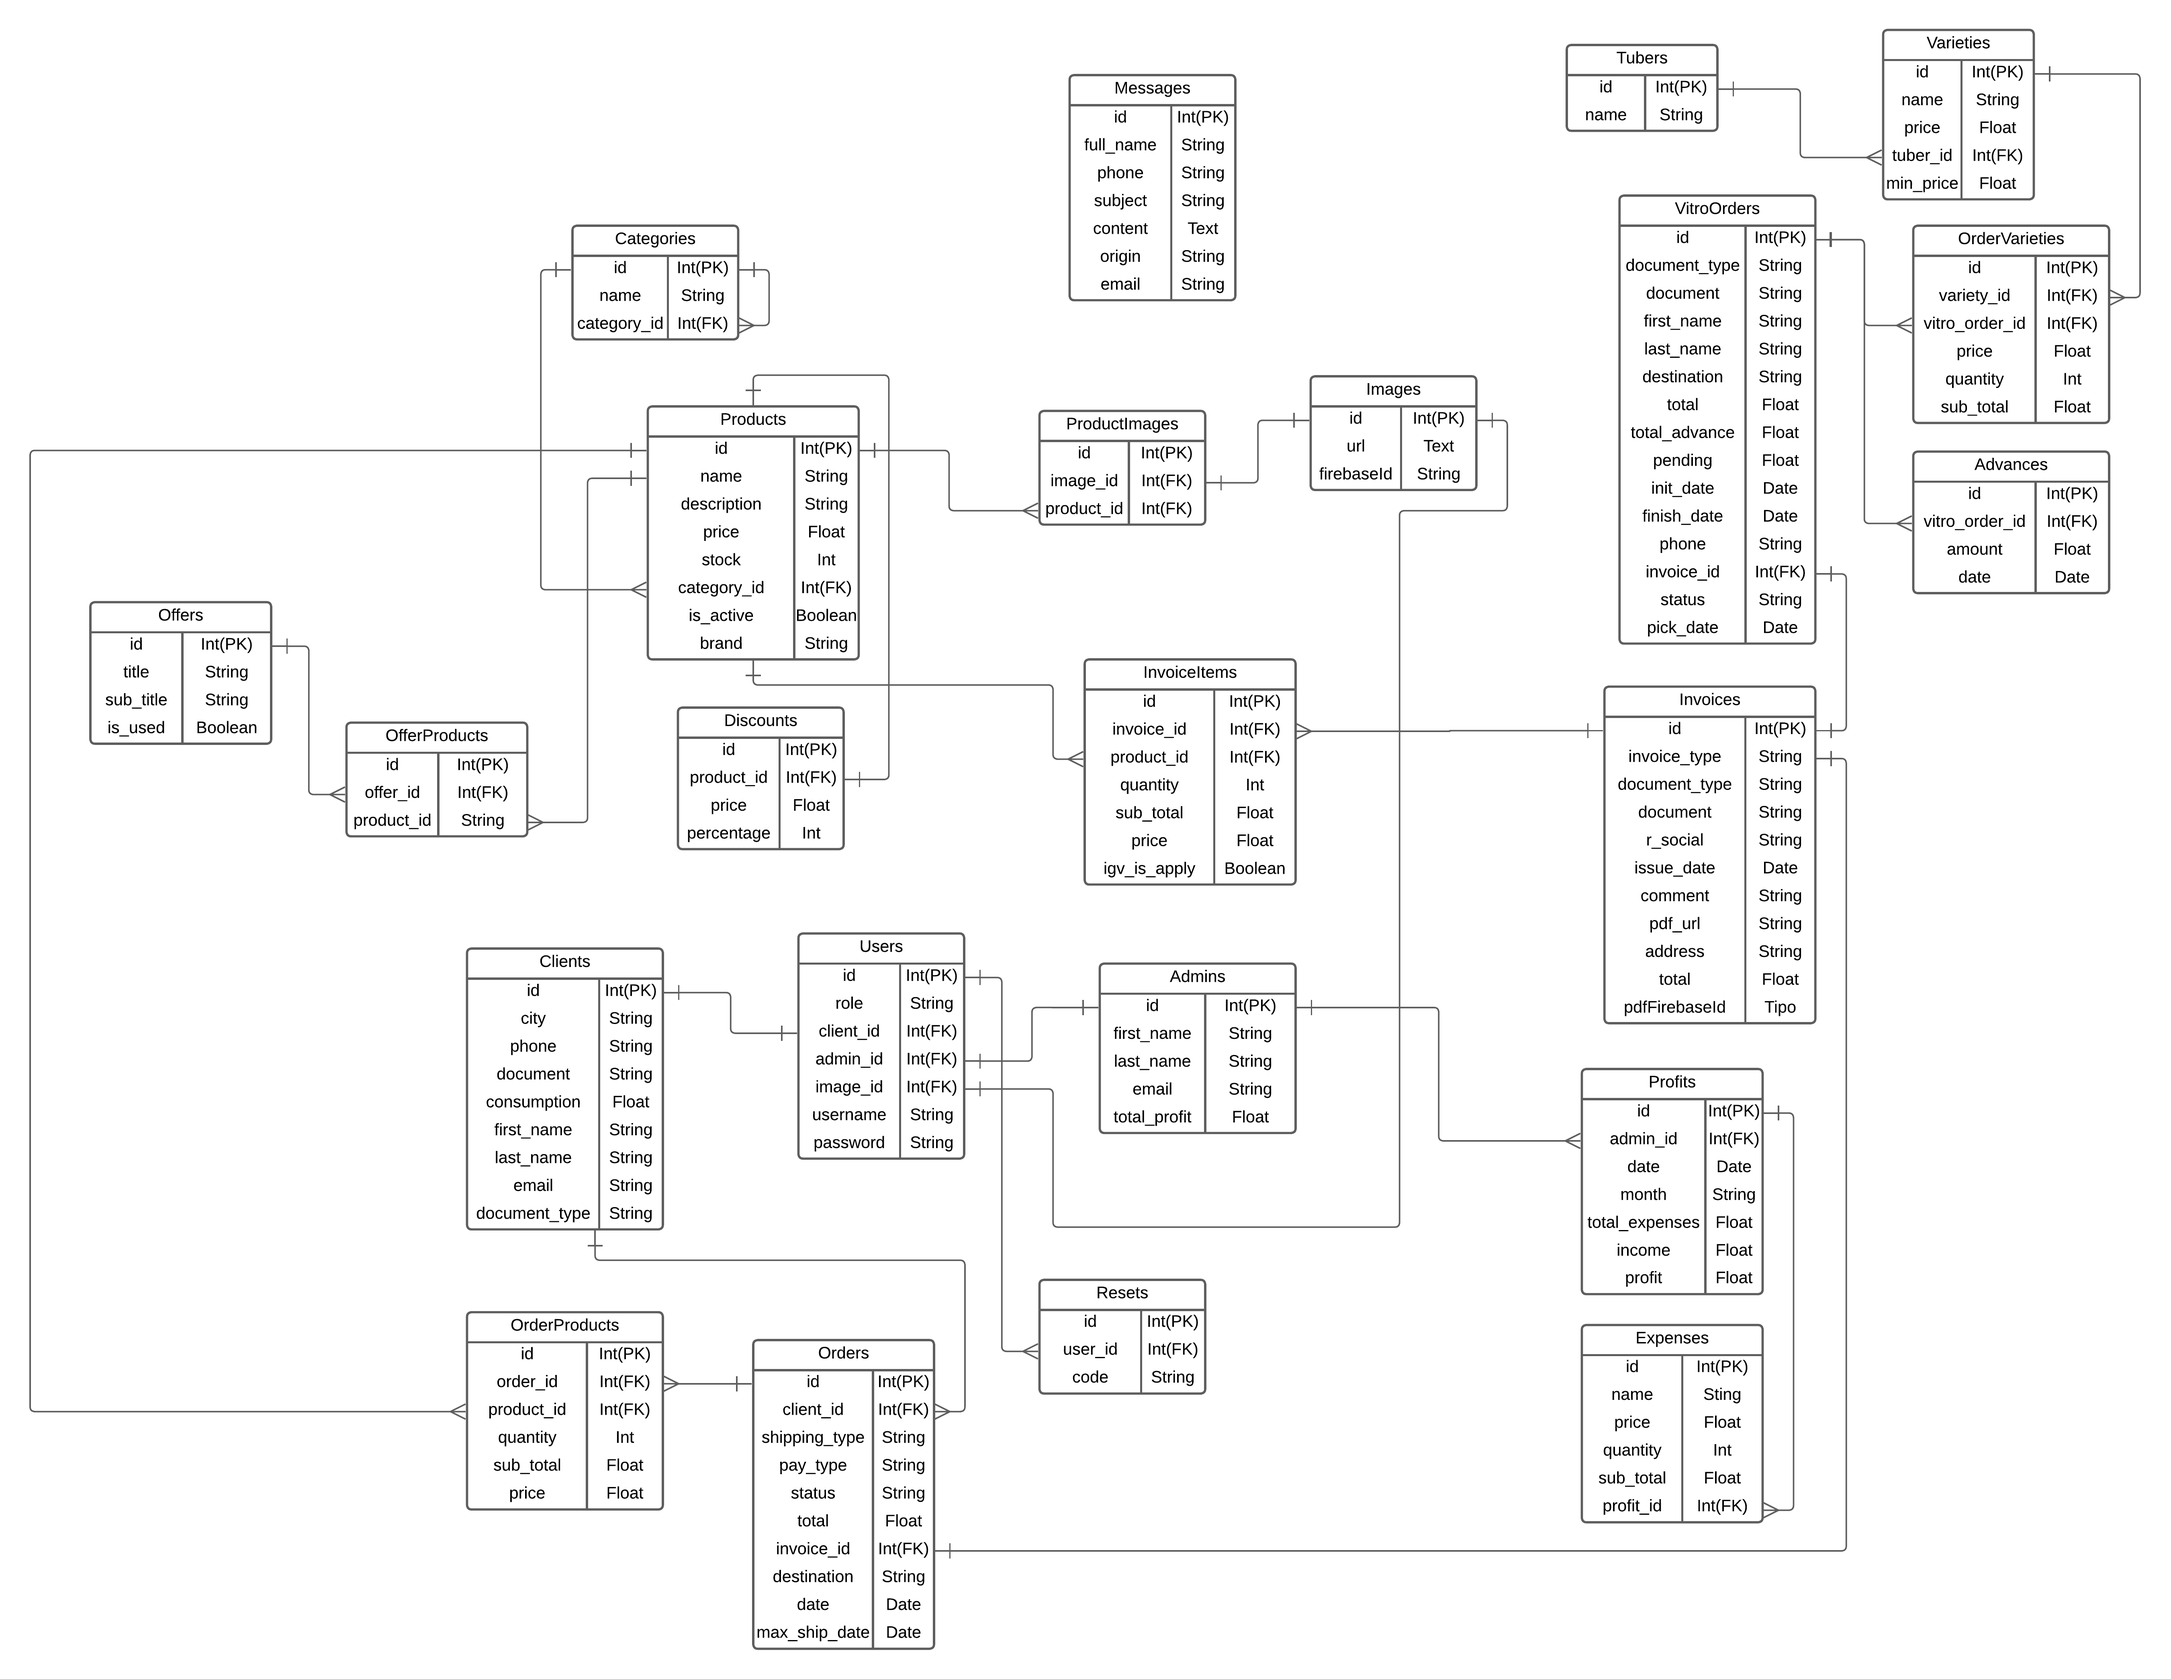
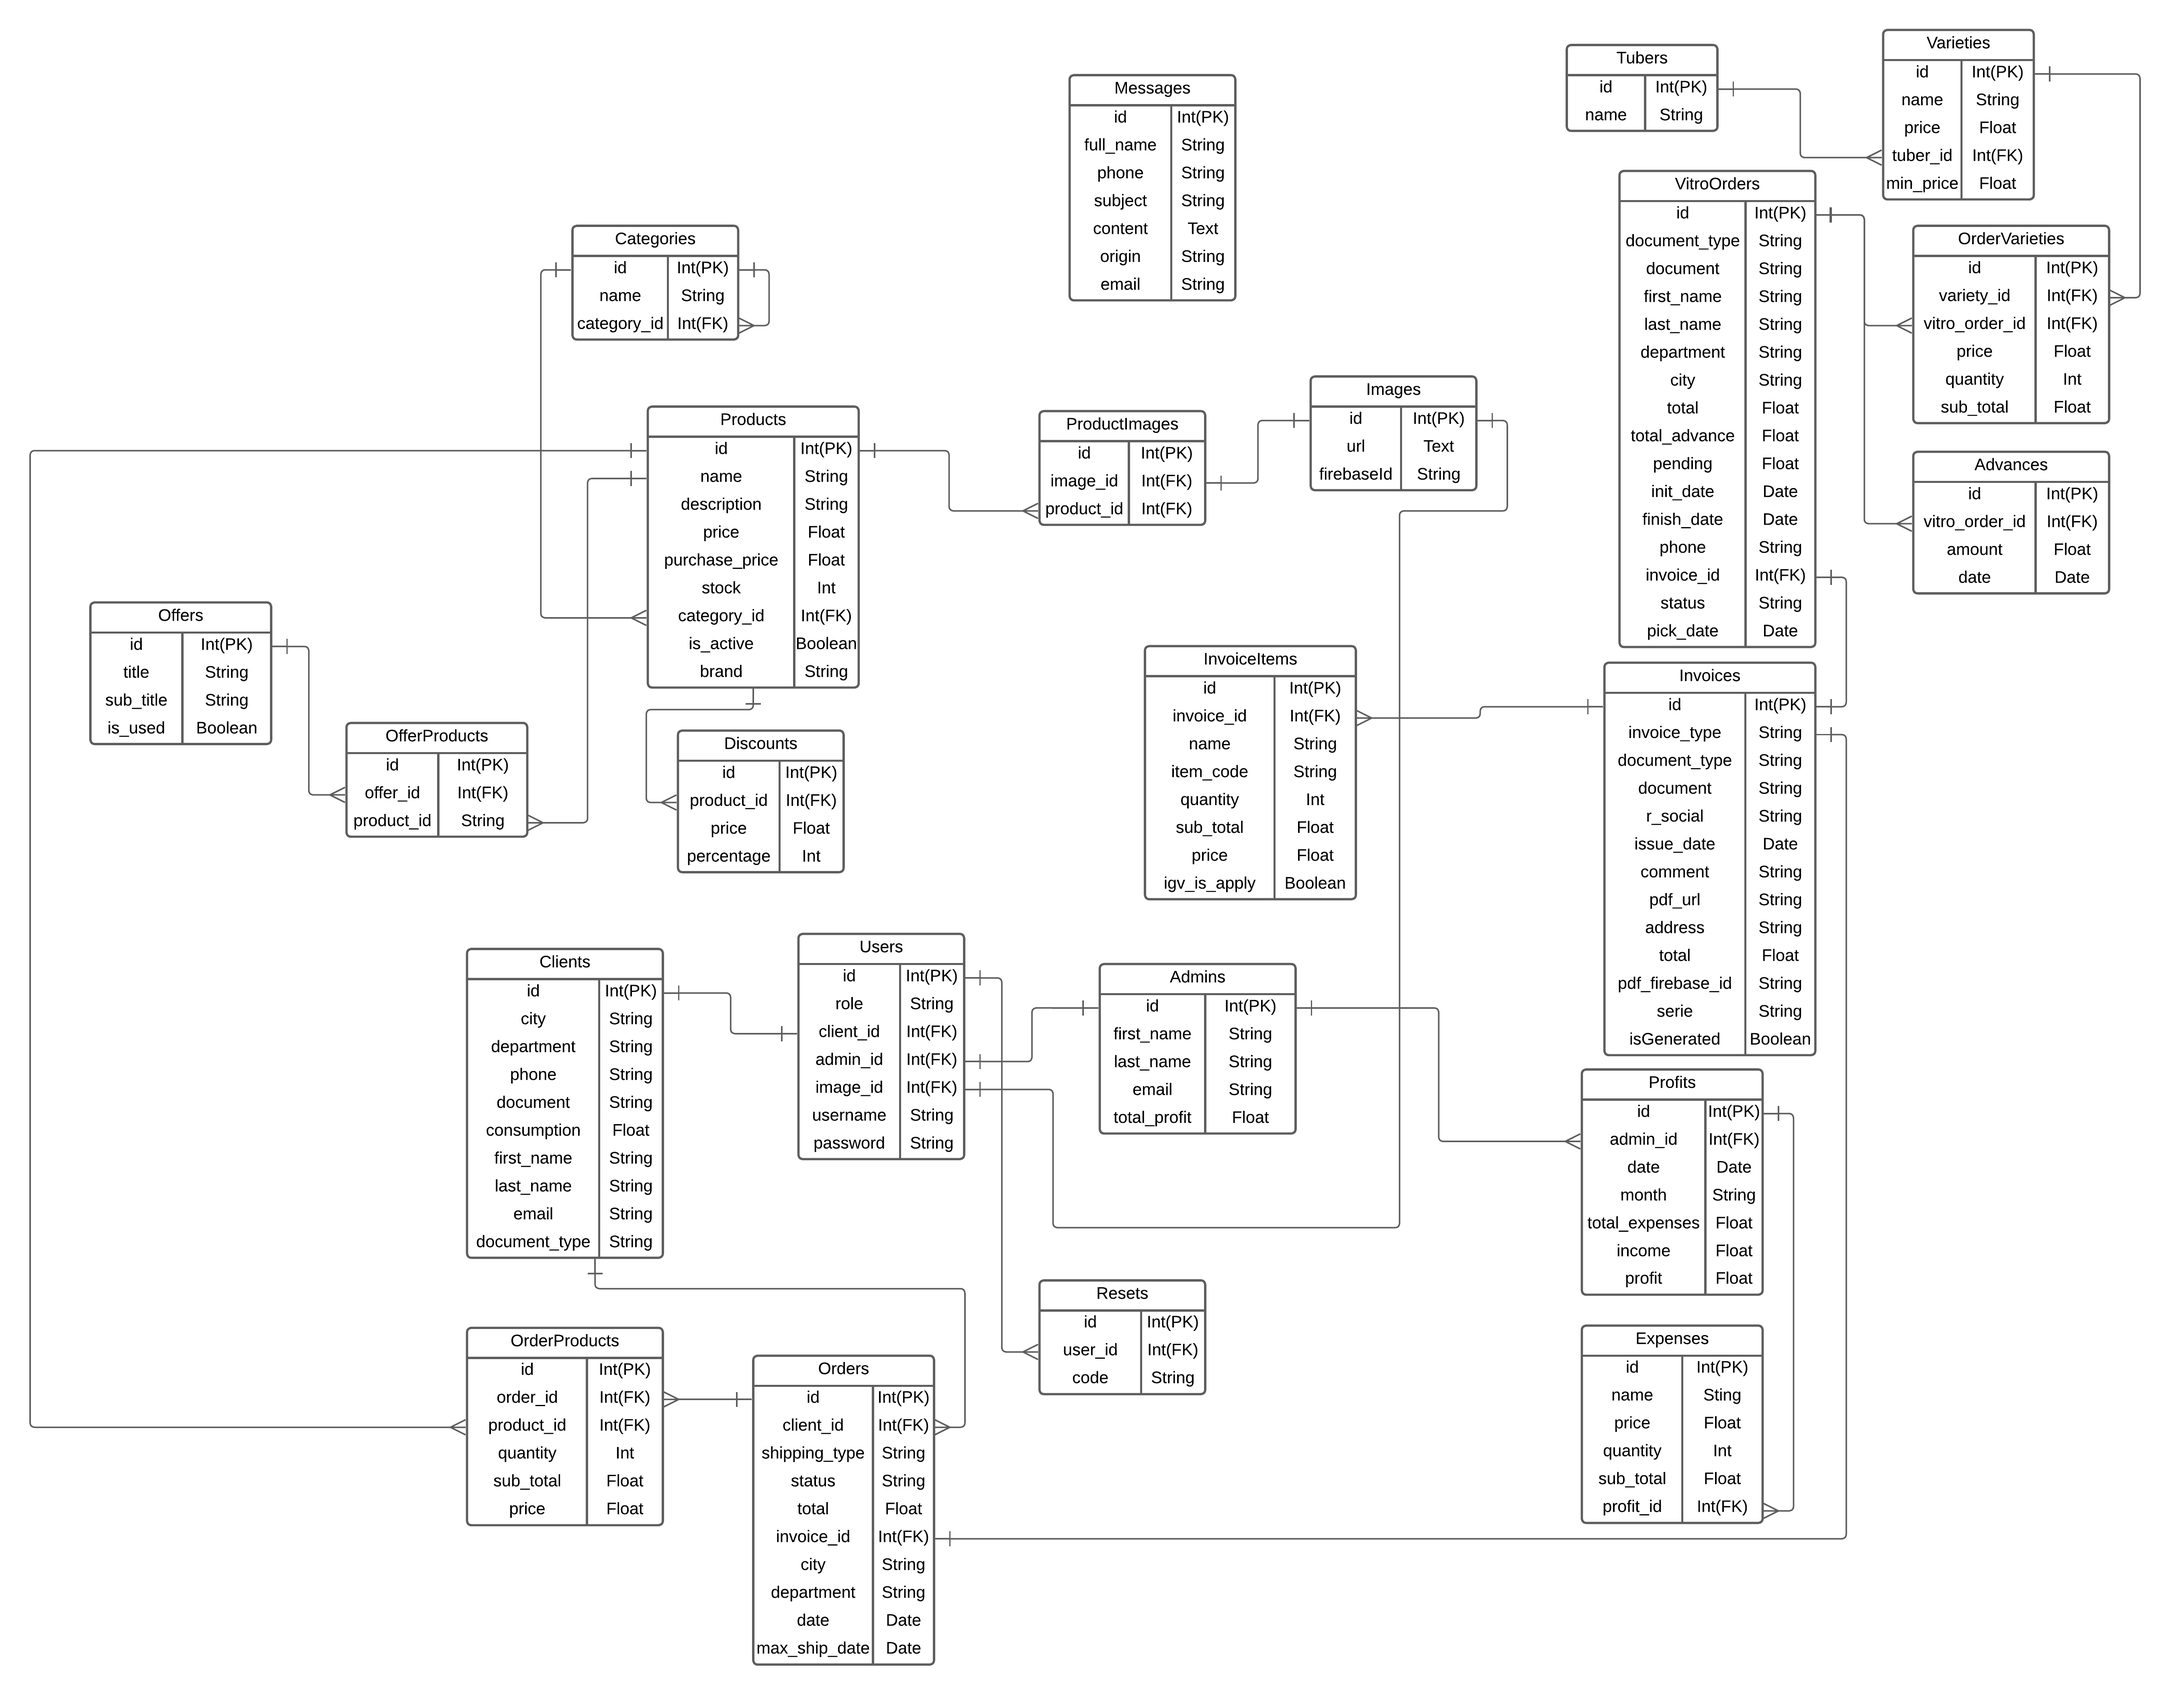
FEAT: update invoice item to work with any data

diff --git a/src/main/resources/templates/invoice.html b/src/main/resources/templates/invoice.html
@@ -36,7 +36,7 @@
         </thead>
         <tbody>
             <tr th:each="item : ${items}">
-                <td th:text="${item.product.name}"></td>
+                <td th:text="${item.name}"></td>
                 <td>S/. <span style="font-weight: 400;" th:text="${item.price}"></span></td>
                 <td th:text="${item.quantity}"></td>
                 <td>S/. <span style="font-weight: 400;" th:text="${item.subTotal}"></span></td>

diff --git a/src/main/java/com/inversionesaraujo/api/controller/InvoiceItemController.java b/src/main/java/com/inversionesaraujo/api/controller/InvoiceItemController.java
@@ -3,19 +3,19 @@ package com.inversionesaraujo.api.controller;
 import org.springframework.beans.factory.annotation.Autowired;
 import org.springframework.http.HttpStatus;
 import org.springframework.http.ResponseEntity;
+import org.springframework.web.bind.annotation.DeleteMapping;
 import org.springframework.web.bind.annotation.GetMapping;
 import org.springframework.web.bind.annotation.PathVariable;
 import org.springframework.web.bind.annotation.PostMapping;
+import org.springframework.web.bind.annotation.PutMapping;
 import org.springframework.web.bind.annotation.RequestBody;
 import org.springframework.web.bind.annotation.RequestMapping;
 import org.springframework.web.bind.annotation.RestController;
 
 import com.inversionesaraujo.api.model.entity.Invoice;
 import com.inversionesaraujo.api.model.entity.InvoiceItem;
-import com.inversionesaraujo.api.model.entity.Product;
 import com.inversionesaraujo.api.model.payload.MessageResponse;
 import com.inversionesaraujo.api.model.request.InvoiceItemRequest;
-import com.inversionesaraujo.api.service.IProduct;
 import com.inversionesaraujo.api.service.I_Invoice;
 import com.inversionesaraujo.api.service.I_InvoiceItem;
 
@@ -26,8 +26,6 @@ public class InvoiceItemController {
     private I_InvoiceItem invoiceItemService;
     @Autowired
     private I_Invoice invoiceService;
-    @Autowired
-    private IProduct productService;
 
     @GetMapping("{id}")
     public ResponseEntity<MessageResponse> getOneById(@PathVariable Integer id) {
@@ -51,17 +49,15 @@ public class InvoiceItemController {
     public ResponseEntity<MessageResponse> create(@RequestBody InvoiceItemRequest request) {
         try {
             Invoice invoice = invoiceService.findById(request.getInvoiceId());
-            Product product = productService.findById(request.getProductId());
-            Double price = product.getPrice();
-            if(product.getDiscount() != null) price = product.getDiscount().getPrice();
-            Double subTotal = price * request.getQuantity();
+            Double subTotal = request.getPrice() * request.getQuantity();
 
             InvoiceItem newItem = invoiceItemService.save(InvoiceItem
                 .builder()
                 .invoice(invoice)
-                .product(product)
                 .subTotal(subTotal)
-                .price(price)
+                .name(request.getName())
+                .itemCode(request.getItemCode())
+                .price(request.getPrice())
                 .quantity(request.getQuantity())
                 .isIgvApply(request.isIgvApply())
                 .build());
@@ -79,6 +75,62 @@ public class InvoiceItemController {
                 .builder()
                 .message(error.getMessage())
                 .build(), HttpStatus.NOT_ACCEPTABLE);
+        }
+    }
+
+    @PutMapping("{id}")
+    public ResponseEntity<MessageResponse> update(@PathVariable Integer id, @RequestBody InvoiceItemRequest request) {
+        try {
+            InvoiceItem item = invoiceItemService.findById(id);
+            Invoice invoice = item.getInvoice();
+            Double subTotal = request.getPrice() * request.getQuantity();
+            Double oldSubTotal = item.getSubTotal();
+
+            item.setIgvApply(request.isIgvApply());
+            item.setInvoice(invoice);
+            item.setQuantity(request.getQuantity());
+            item.setPrice(request.getPrice());
+            item.setSubTotal(subTotal);
+            item.setName(request.getName());
+            item.setItemCode(request.getItemCode());
+            InvoiceItem itemUpdated = invoiceItemService.save(item);
+
+            invoice.setTotal((invoice.getTotal() - oldSubTotal) + subTotal);
+            invoiceService.save(invoice);
+
+            return new ResponseEntity<>(MessageResponse
+                .builder()
+                .message("El item se actualizo con exito")
+                .data(itemUpdated)
+                .build(), HttpStatus.OK);
+        }catch(Exception error) {
+            return new ResponseEntity<>(MessageResponse
+            .builder()
+            .message(error.getMessage())
+            .build(), HttpStatus.NOT_FOUND);
+        }
+    }
+
+    @DeleteMapping("{id}")
+    public ResponseEntity<MessageResponse> delete(@PathVariable Integer id) {
+        try {
+            InvoiceItem item = invoiceItemService.findById(id);
+            Invoice invoice = item.getInvoice();
+            Double oldSubTotal = item.getSubTotal();
+            invoiceItemService.delete(item);
+
+            invoice.setTotal(invoice.getTotal() - oldSubTotal);
+            invoiceService.save(invoice);
+
+            return new ResponseEntity<>(MessageResponse
+                .builder()
+                .message("El item se elimino con exito")
+                .build(), HttpStatus.OK);
+        }catch(Exception error) {
+            return new ResponseEntity<>(MessageResponse
+                .builder()
+                .message(error.getMessage())
+                .build(), HttpStatus.NOT_FOUND);
         }
     }
 }

diff --git a/src/main/java/com/inversionesaraujo/api/model/entity/InvoiceItem.java b/src/main/java/com/inversionesaraujo/api/model/entity/InvoiceItem.java
@@ -10,6 +10,7 @@ import jakarta.persistence.Id;
 import jakarta.persistence.JoinColumn;
 import jakarta.persistence.ManyToOne;
 import jakarta.persistence.Table;
+import jakarta.validation.constraints.NotEmpty;
 import jakarta.validation.constraints.NotNull;
 import lombok.AllArgsConstructor;
 import lombok.Builder;
@@ -31,10 +32,9 @@ public class InvoiceItem {
     @NotNull(message = "El id del comprobante no puede ir vacio")
     @JsonIgnore
     private Invoice invoice;
-    @ManyToOne
-    @JoinColumn(name = "product_id")
-    @NotNull(message = "El id del producto no puede ir vacio")
-    private Product product;
+    @NotEmpty(message = "El nombre del item no puede ir vacio")
+    private String name;
+    private String itemCode;
     @NotNull(message = "La cantidad no puede ir vacia")
     private Integer quantity;
     @Column(nullable = false)

diff --git a/src/main/java/com/inversionesaraujo/api/model/request/InvoiceItemRequest.java b/src/main/java/com/inversionesaraujo/api/model/request/InvoiceItemRequest.java
@@ -12,7 +12,9 @@ import lombok.NoArgsConstructor;
 @NoArgsConstructor
 public class InvoiceItemRequest {
     private Integer invoiceId;
-    private Integer productId;
+    private String name;
+    private String itemCode;
+    private Double price;
     private Integer quantity;
     private boolean isIgvApply = true;
 }
